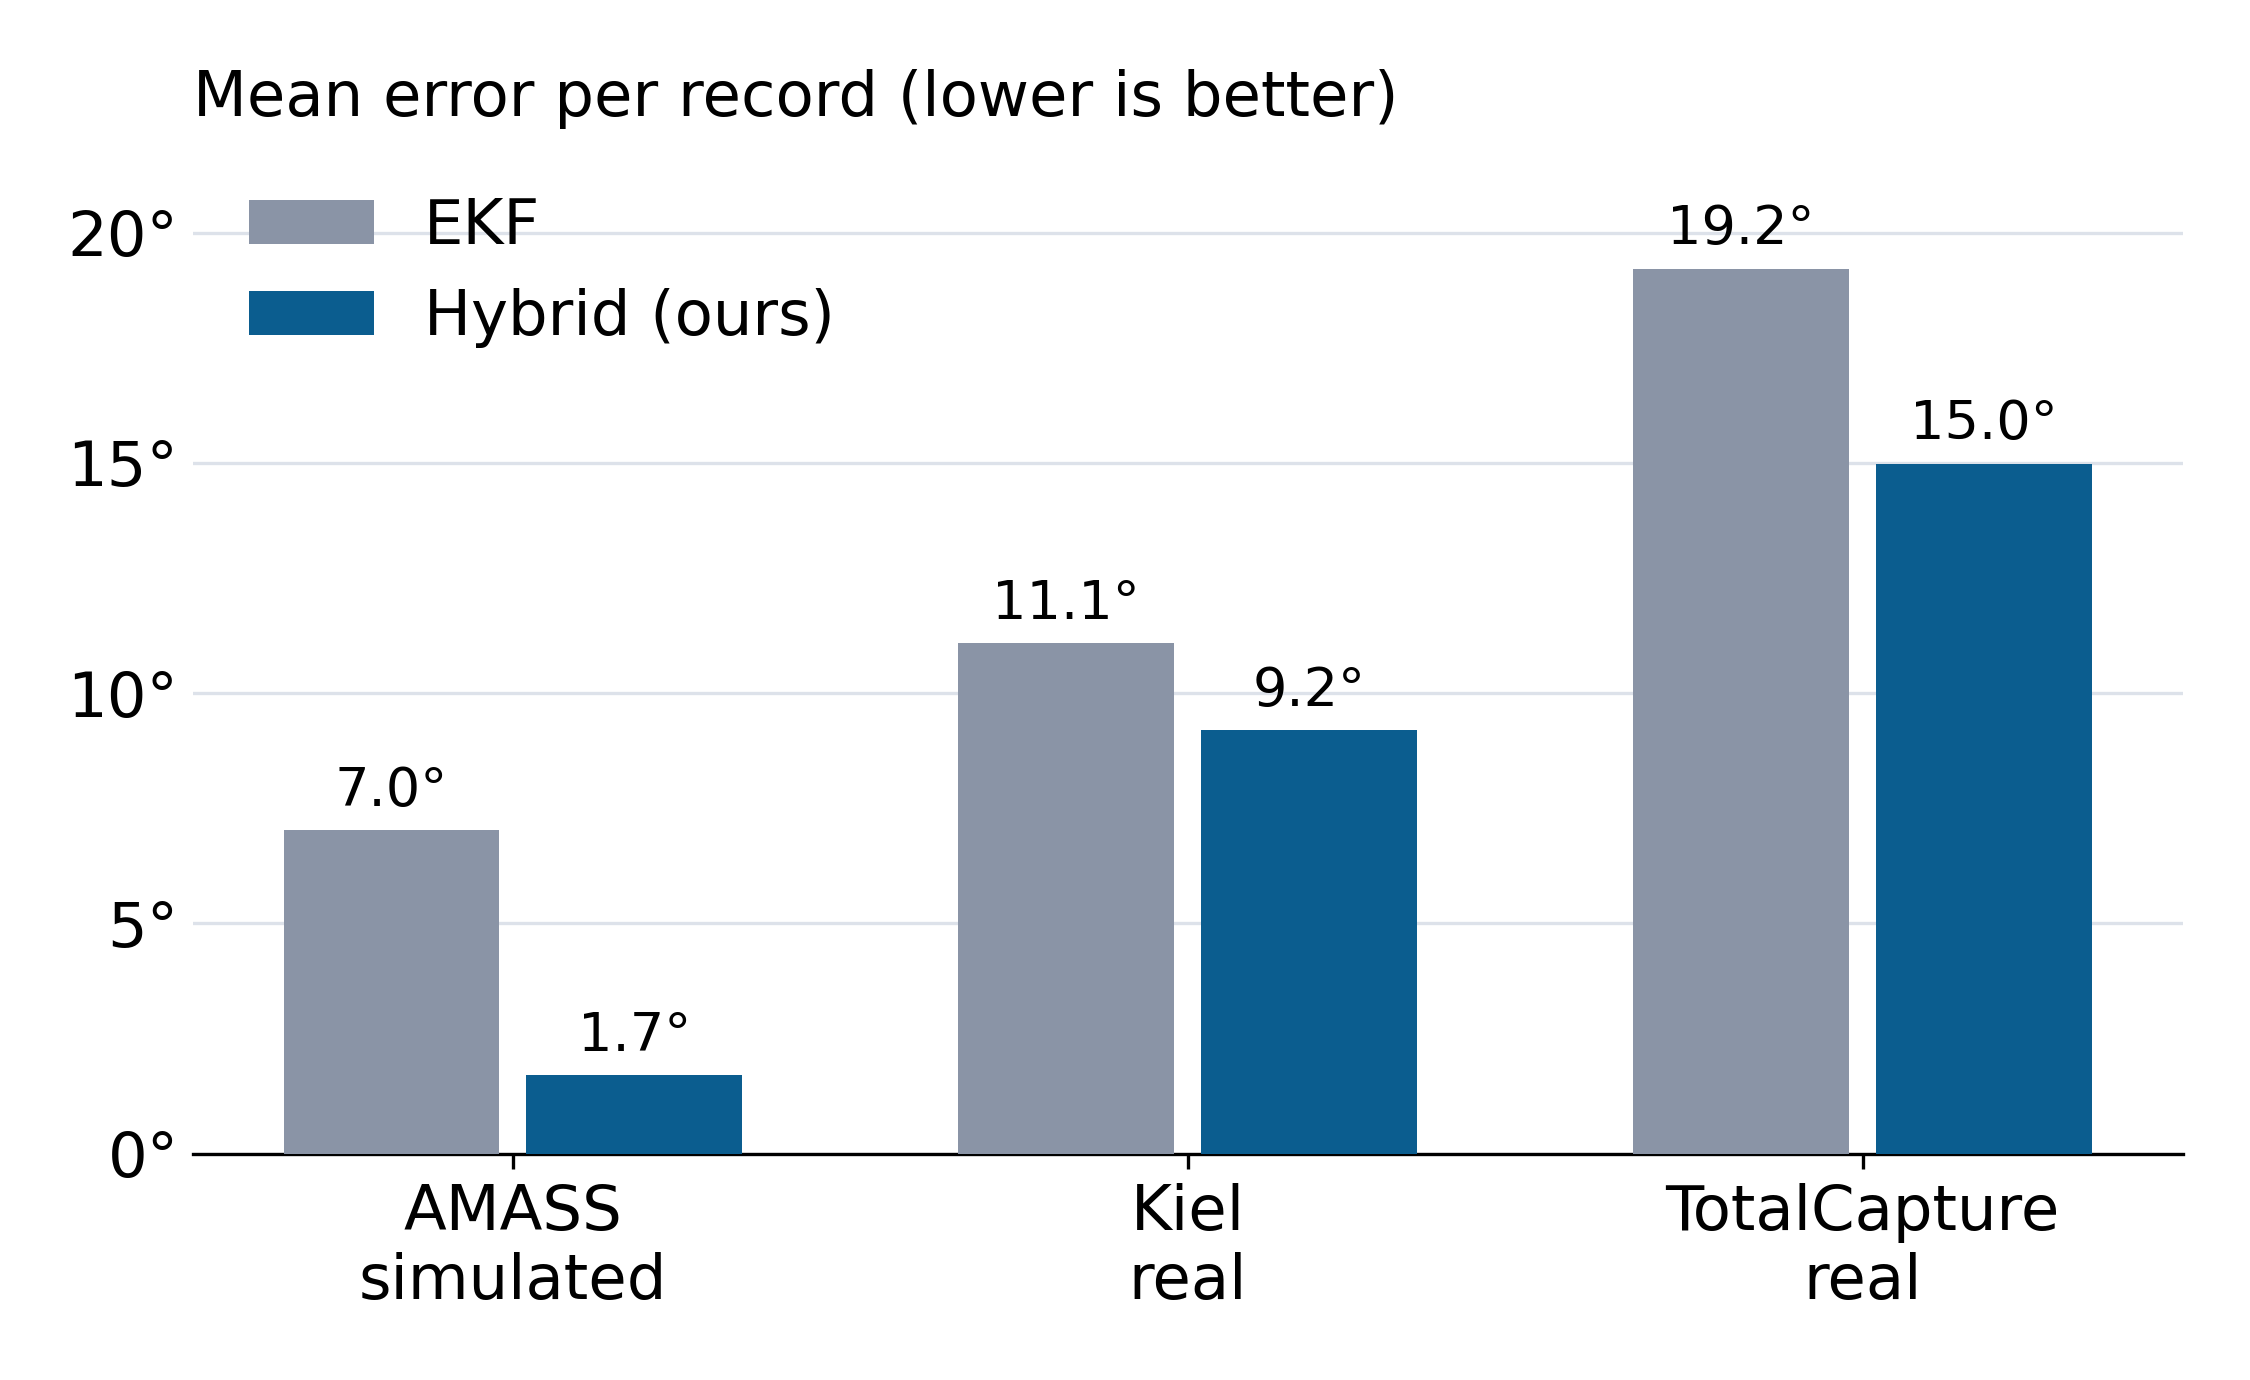
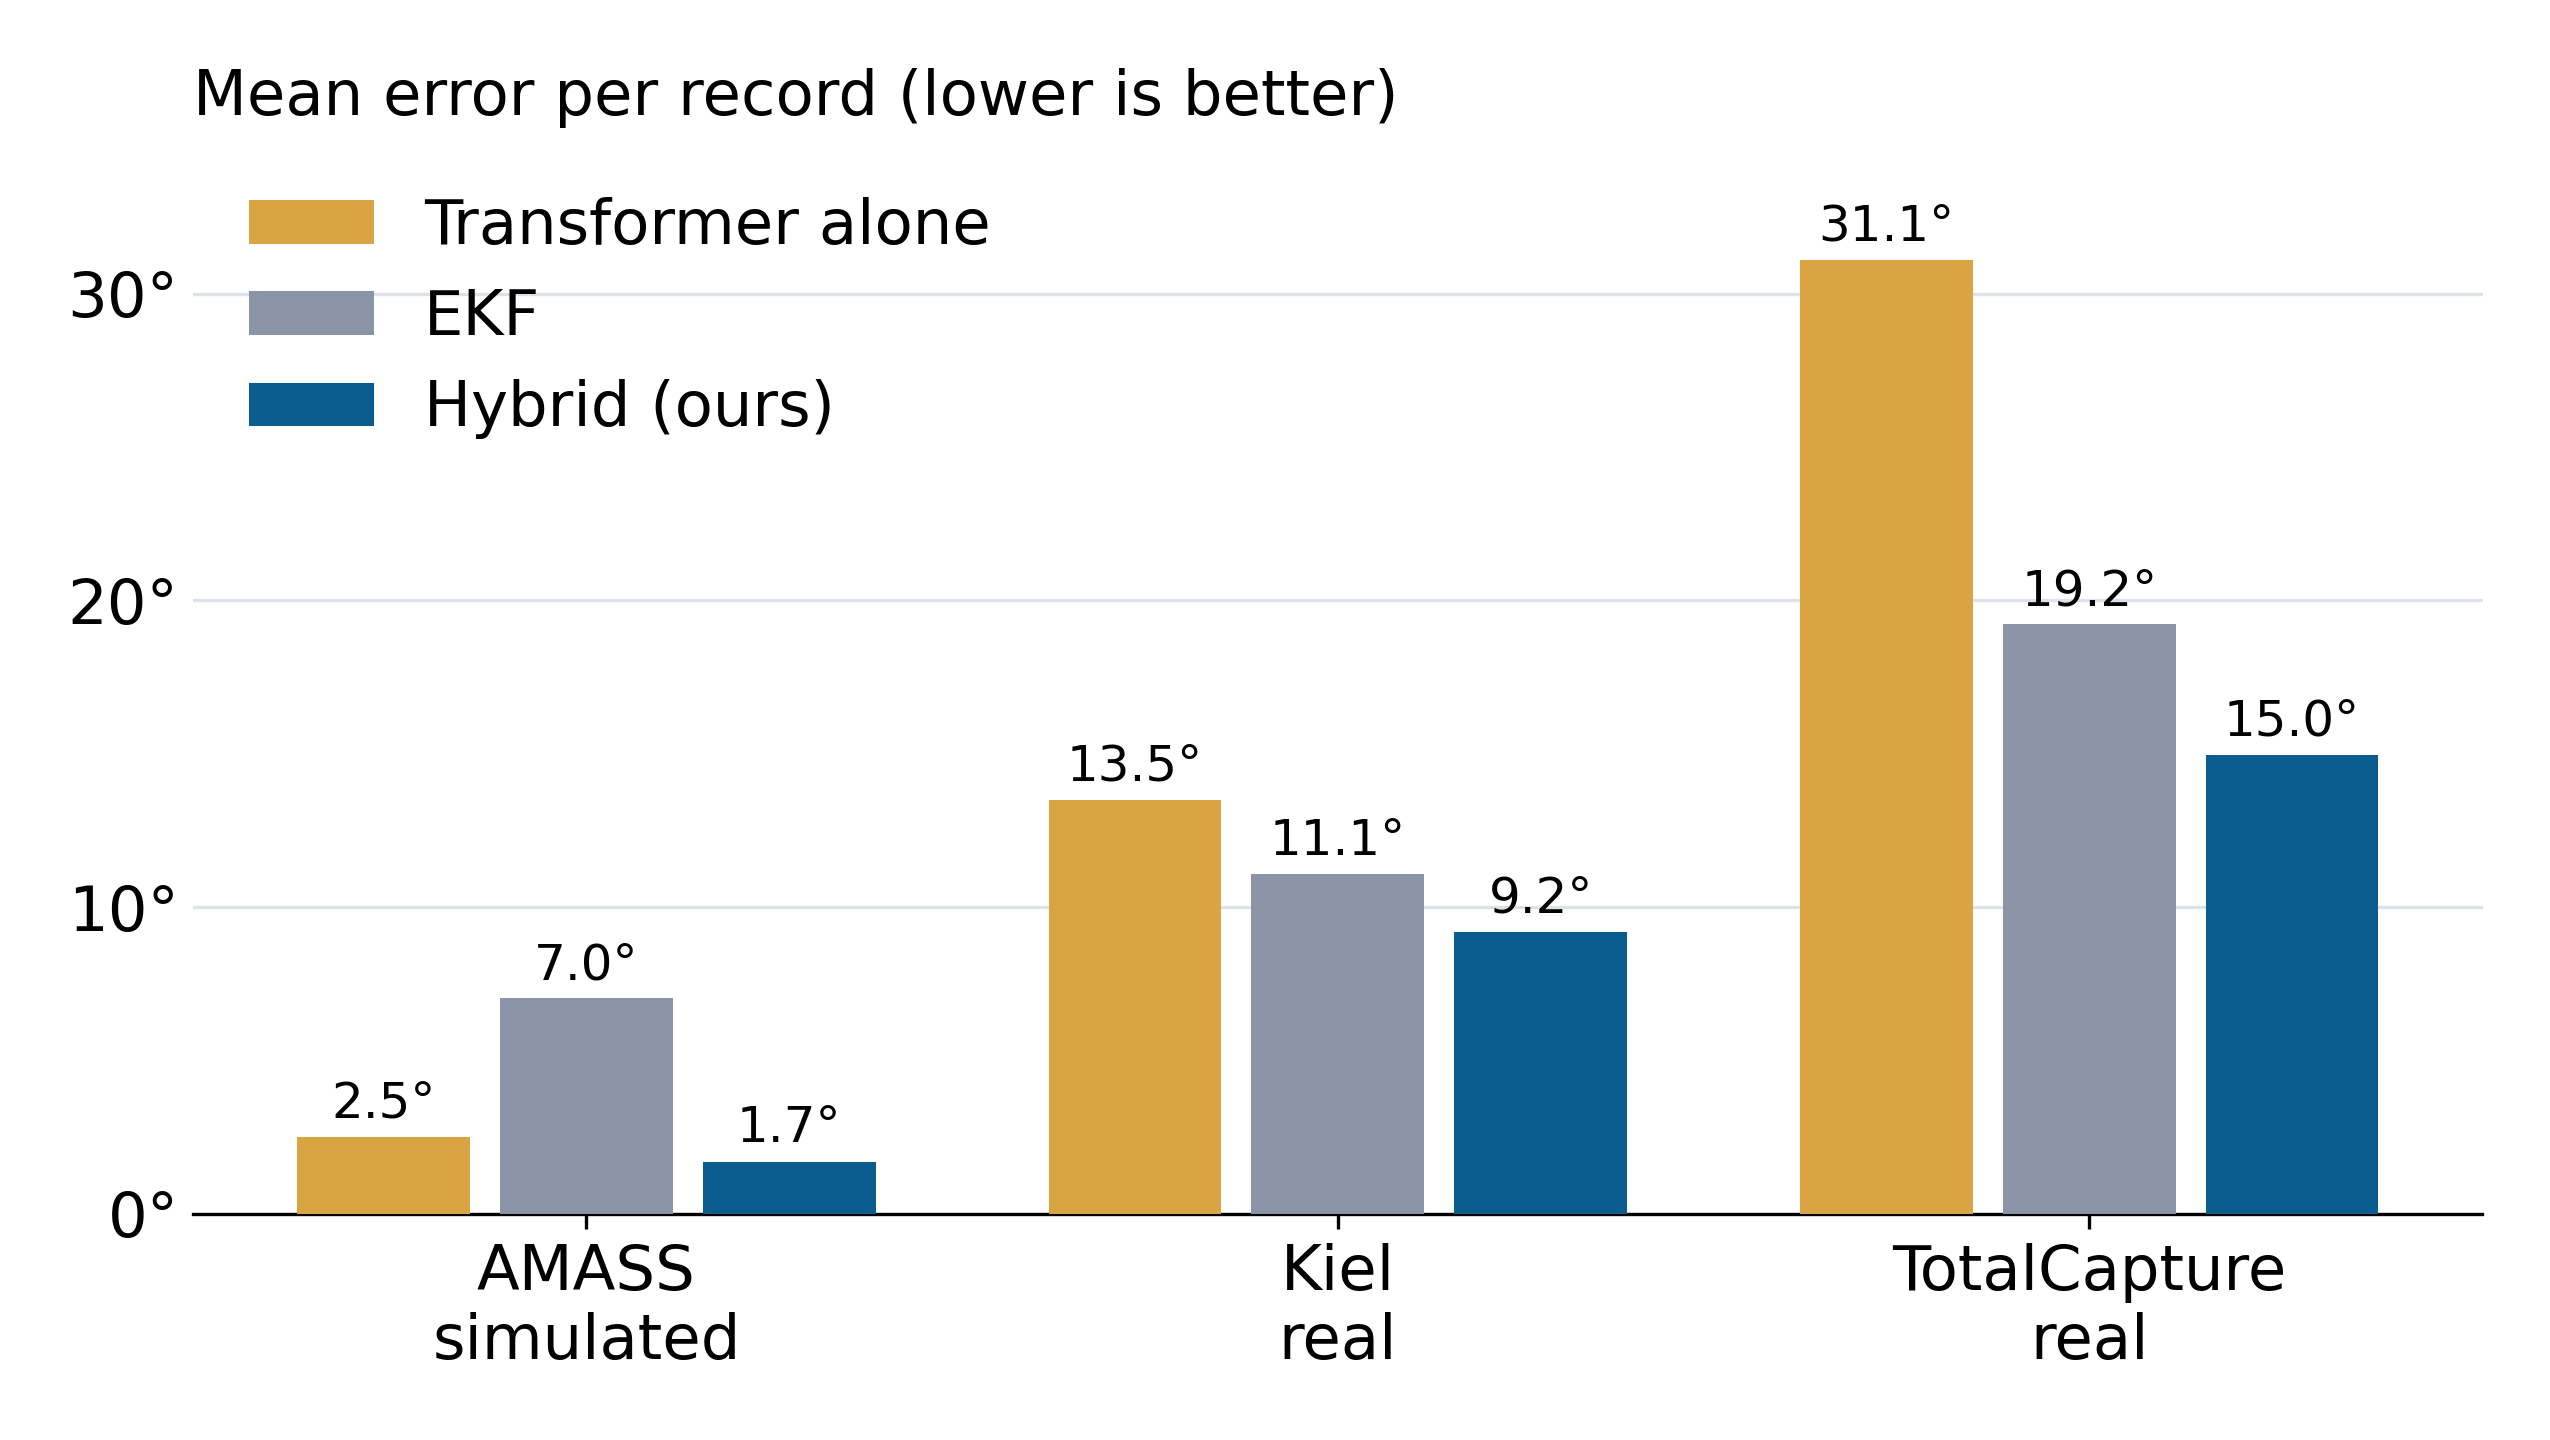
Add Transformer-alone bars to the results chart

diff --git a/index.html b/index.html
@@ -7,10 +7,10 @@
 <link rel="stylesheet" href="https://fonts.googleapis.com/css2?family=IBM+Plex+Sans:wght@400;600&family=IBM+Plex+Mono:wght@500&display=swap">
 <style>
 /* Layout: one headline, one chart, one note. */
-:root { --bg: #f7f8fa; --panel: #ffffff; --fg: #1b2330; --muted: #5a6577; --rule: #dde2ea; --ekf: #8a94a6; --ours: #0b5d8f;
+:root { --bg: #f7f8fa; --panel: #ffffff; --fg: #1b2330; --muted: #5a6577; --rule: #dde2ea; --tf: #d9a441; --ekf: #8a94a6; --ours: #0b5d8f;
   --sans: "IBM Plex Sans", system-ui, sans-serif; --mono: "IBM Plex Mono", ui-monospace, monospace; }
-@media (prefers-color-scheme: dark) { :root:not([data-theme="light"]) { --bg: #12161d; --panel: #1a202a; --fg: #e6eaf0; --muted: #9aa5b6; --rule: #2c3442; --ekf: #7d889b; --ours: #6cb8e2; color-scheme: dark } }
-:root[data-theme="dark"] { --bg: #12161d; --panel: #1a202a; --fg: #e6eaf0; --muted: #9aa5b6; --rule: #2c3442; --ekf: #7d889b; --ours: #6cb8e2; color-scheme: dark }
+@media (prefers-color-scheme: dark) { :root:not([data-theme="light"]) { --bg: #12161d; --panel: #1a202a; --fg: #e6eaf0; --muted: #9aa5b6; --rule: #2c3442; --tf: #e0b45a; --ekf: #7d889b; --ours: #6cb8e2; color-scheme: dark } }
+:root[data-theme="dark"] { --bg: #12161d; --panel: #1a202a; --fg: #e6eaf0; --muted: #9aa5b6; --rule: #2c3442; --tf: #e0b45a; --ekf: #7d889b; --ours: #6cb8e2; color-scheme: dark }
 body { margin: 0; background: var(--bg); color: var(--fg); font-family: var(--sans); font-size: 16px; line-height: 1.5; }
 .wrap { max-width: 720px; margin: 0 auto; padding-block: 32px 48px; padding-left: max(16px, env(safe-area-inset-left, 0px)); padding-right: max(16px, env(safe-area-inset-right, 0px)); display: grid; gap: 20px; }
 h1 { font-size: 1.6rem; line-height: 1.25; margin: 0; font-weight: 600; text-wrap: balance; }
@@ -29,22 +29,22 @@ p { margin: 0; color: var(--muted); font-size: .9rem; max-width: 65ch; }
 <div class="wrap">
   <h1>Adding a learned estimate to the EKF lowers the error on simulated and real data</h1>
   <div class="panel">
-    <div class="legend"><span><i class="sw" style="background:var(--ekf)"></i>EKF</span><span><i class="sw" style="background:var(--ours)"></i>Hybrid (ours)</span></div>
+    <div class="legend"><span><i class="sw" style="background:var(--tf)"></i>Transformer alone</span><span><i class="sw" style="background:var(--ekf)"></i>EKF</span><span><i class="sw" style="background:var(--ours)"></i>Hybrid (ours)</span></div>
     <div id="chart"></div>
   </div>
-  <p>Mean relative-orientation error per record, lower is better. Same records for both methods in each dataset.</p>
+  <p>Mean relative-orientation error per record, lower is better. Same records for all three methods in each dataset.</p>
   <div class="panel"><img src="hybrid_structure.svg" alt="Structure of the hybrid: gyro prediction, network update every 0.1 s with the Transformer's relative orientation, then the joint-constraint update" style="width:100%;height:auto;display:block;border-radius:6px"></div>
 </div>
 <script>
-const D = [["AMASS", "simulated", 7.02, 1.70], ["Kiel", "real", 11.08, 9.19], ["TotalCapture", "real", 19.22, 14.97]];
-const W = 640, H = 300, L = 40, R = 10, T = 24, B = 50, ymax = 20;
-const y = v => T + (H - T - B) * (1 - v / ymax), gw = (W - L - R) / D.length, bw = 64;
-let s = `<svg viewBox="0 0 ${W} ${H}" role="img" aria-label="Mean error, EKF vs hybrid: AMASS 7.0 vs 1.7, Kiel 11.1 vs 9.2, TotalCapture 19.2 vs 15.0 degrees">`;
-for (let v = 0; v <= ymax; v += 5) s += `<line x1="${L}" x2="${W - R}" y1="${y(v)}" y2="${y(v)}" stroke="var(--rule)"/><text x="${L - 8}" y="${y(v) + 4}" text-anchor="end">${v}°</text>`;
-D.forEach(([name, kind, e, h], i) => {
+const D = [["AMASS", "simulated", 2.50, 7.02, 1.70], ["Kiel", "real", 13.49, 11.08, 9.19], ["TotalCapture", "real", 31.10, 19.22, 14.97]];
+const W = 640, H = 300, L = 40, R = 10, T = 24, B = 50, ymax = 35;
+const y = v => T + (H - T - B) * (1 - v / ymax), gw = (W - L - R) / D.length, bw = 50;
+let s = `<svg viewBox="0 0 ${W} ${H}" role="img" aria-label="Mean error, Transformer alone / EKF / hybrid: AMASS 2.5 / 7.0 / 1.7, Kiel 13.5 / 11.1 / 9.2, TotalCapture 31.1 / 19.2 / 15.0 degrees">`;
+for (let v = 0; v <= ymax; v += 10) s += `<line x1="${L}" x2="${W - R}" y1="${y(v)}" y2="${y(v)}" stroke="var(--rule)"/><text x="${L - 8}" y="${y(v) + 4}" text-anchor="end">${v}°</text>`;
+D.forEach(([name, kind, t, e, h], i) => {
   const cx = L + gw * (i + .5);
-  [[e, "--ekf", -1], [h, "--ours", 1]].forEach(([v, c, side]) => {
-    const x = cx + (side < 0 ? -bw - 3 : 3), yy = y(v);
+  [[t, "--tf", -1], [e, "--ekf", 0], [h, "--ours", 1]].forEach(([v, c, side]) => {
+    const x = cx - bw / 2 + side * (bw + 4), yy = y(v);
     s += `<path d="M${x},${y(0)} V${yy + 4} q0,-4 4,-4 h${bw - 8} q4,0 4,4 V${y(0)} Z" fill="var(${c})"/>`;
     s += `<text class="val" x="${x + bw / 2}" y="${yy - 7}" text-anchor="middle">${v.toFixed(1)}°</text>`;
   });
